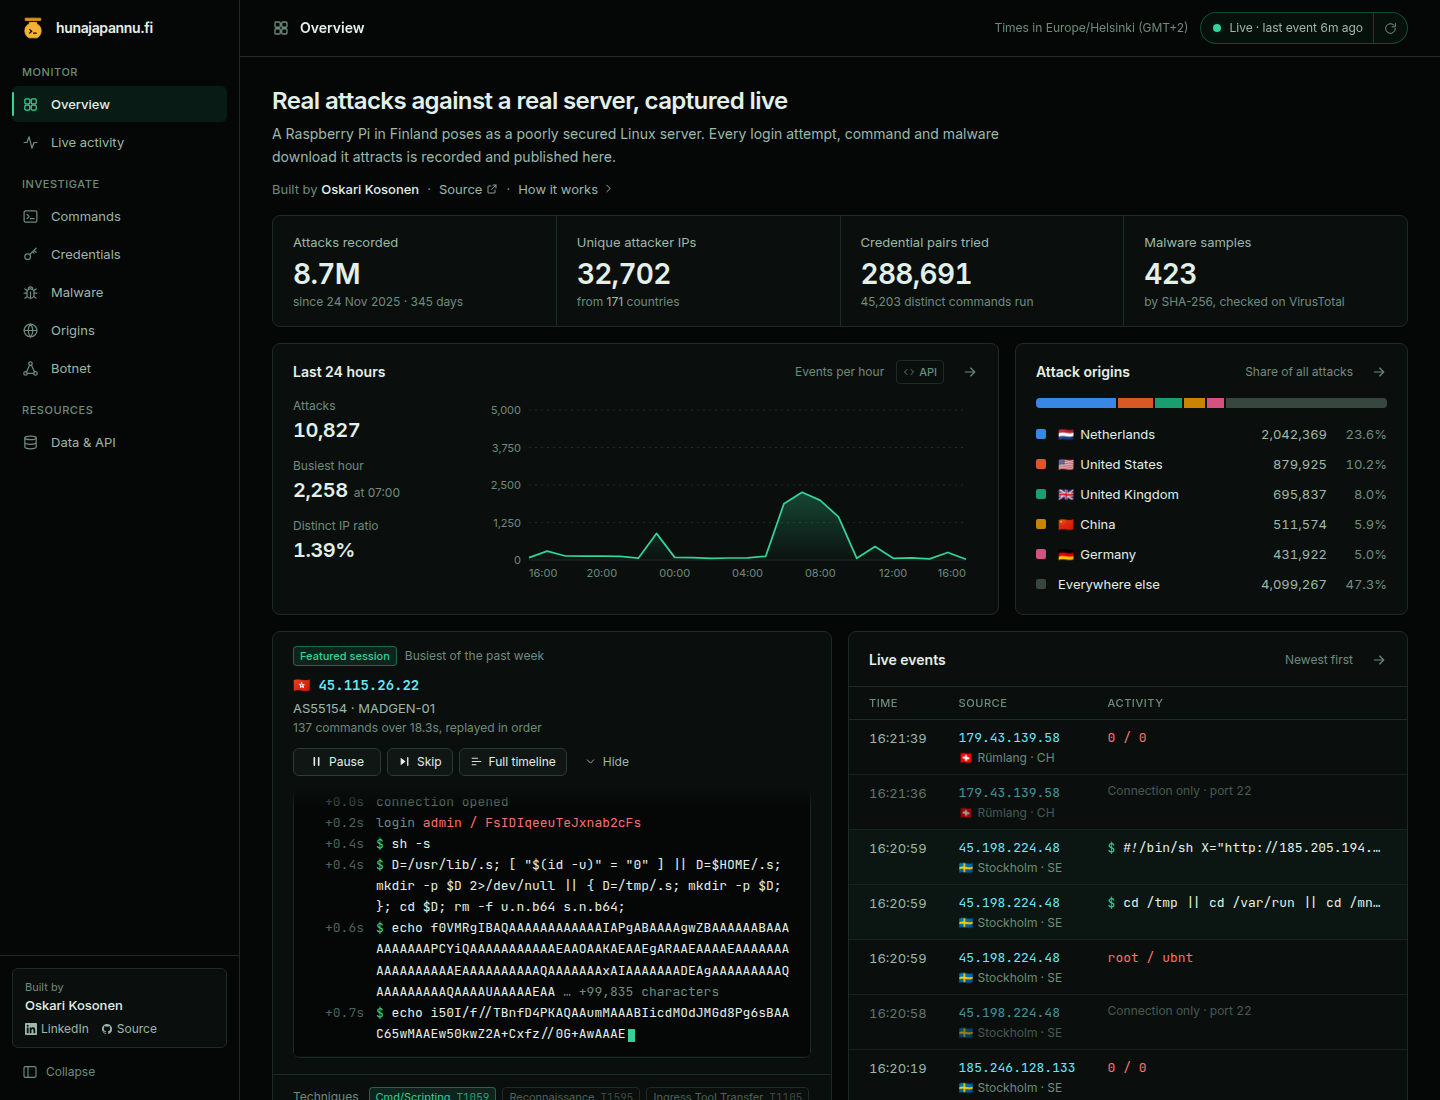
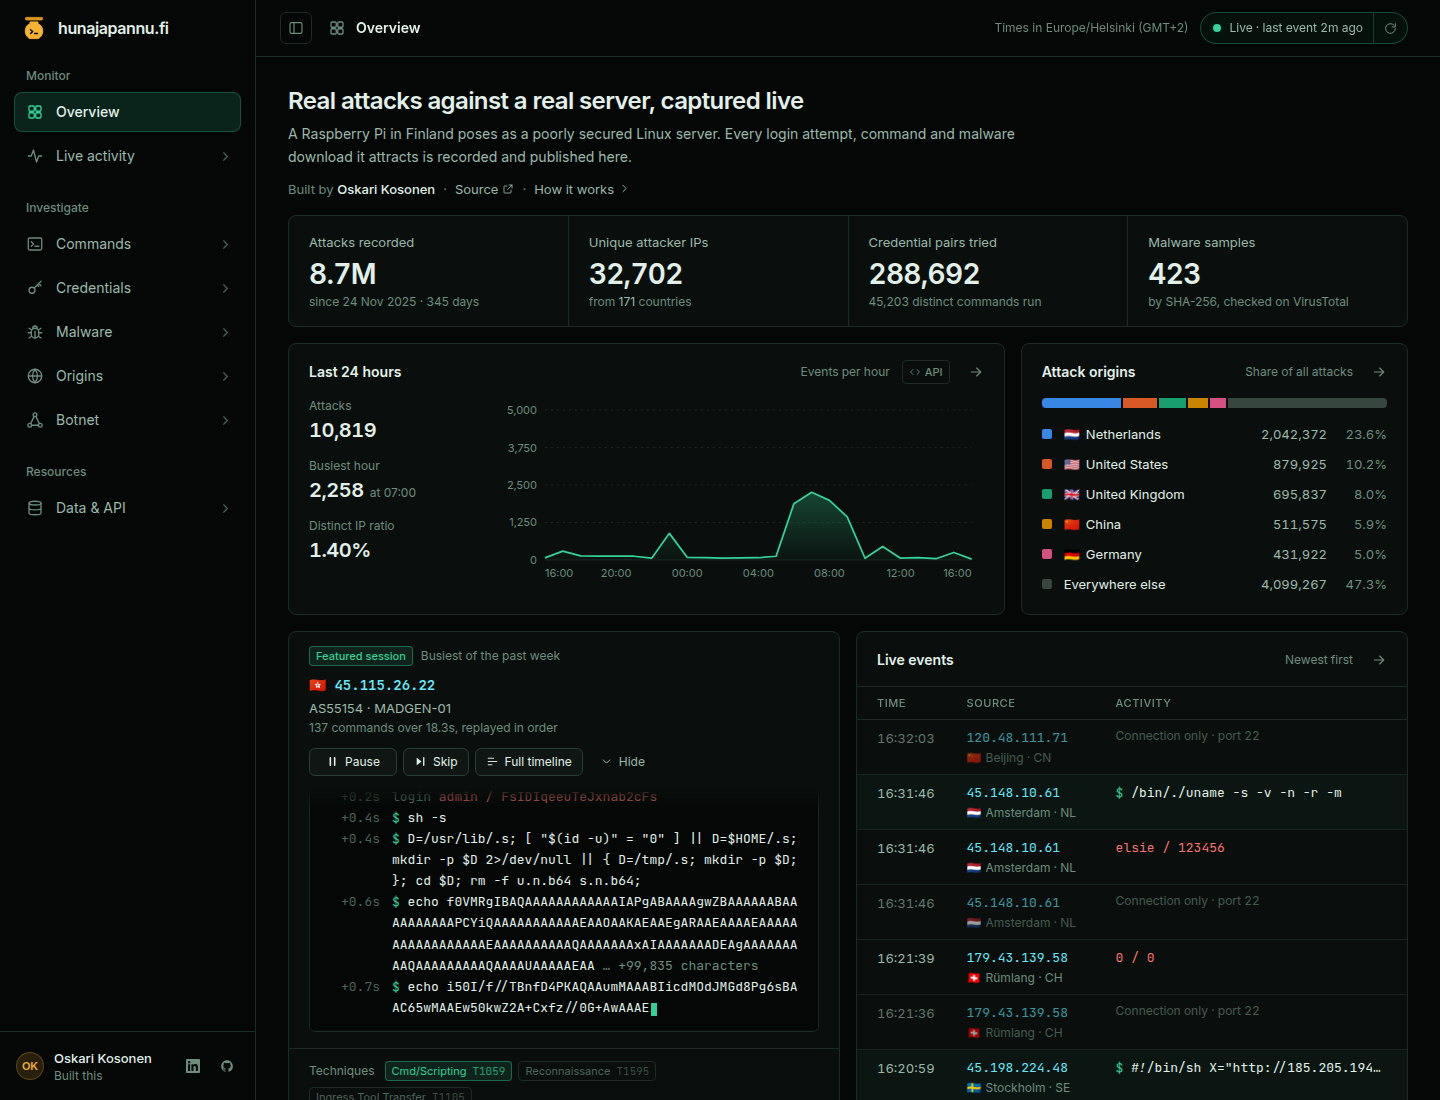
Refine the sidebar: chevrons, larger rows, author row, toggle in top bar
- Every item but the current one carries a chevron that nudges right on
  hover: you are here, the others go somewhere. The current item drops it
  and gets a filled highlight with a hairline ring instead of a thin bar.
- Rows are 40px with 14px labels and 18px icons, on a 256px panel; the
  old 36px rows with 13px text read as a secondary list.
- Group headings in sentence case rather than tracked small caps, and
  hairline dividers between groups in the collapsed rail.
- The collapse toggle moves to the top bar beside the view title, so the
  sidebar foot holds only the author: an initials avatar, name, and icon
  links to LinkedIn and the source.

Also fixed while checking small screens:
- At 320px the top bar overflowed and pushed the refresh button off the
  screen; phones now show "Live · 1m ago" instead of the long form.
- The 24h figures overlapped on narrow phones because they refused to
  wrap ("2,258 at 07:00" ran into the next figure).

diff --git a/frontend/src/components/Sidebar.jsx b/frontend/src/components/Sidebar.jsx
@@ -1,6 +1,6 @@
 import { memo } from "react";
 import { cx } from "../lib/cx";
-import { GitHubIcon, LinkedInIcon, LogoMark, PanelLeftIcon } from "./ui/icons";
+import { ChevronRightIcon, GitHubIcon, LinkedInIcon, LogoMark } from "./ui/icons";
 
 /**
  * Desktop navigation: sections grouped by what you are doing — watching,
@@ -9,10 +9,91 @@ import { GitHubIcon, LinkedInIcon, LogoMark, PanelLeftIcon } from "./ui/icons";
  *
  * Items are real links (?view=...), so middle-click and "open in new tab"
  * behave; a plain click is intercepted to switch views without a reload.
+ * Every item but the current one carries a chevron: you are here, those go
+ * somewhere. The collapse toggle lives in the top bar, beside the view title.
  *
  * @param {Array<{id, label, group, Icon}>} items
  */
-const Sidebar = ({ items, groups, view, onView, collapsed, onToggle }) => {
+
+const LINKEDIN = "https://www.linkedin.com/in/oskari-kosonen-ba2589294/";
+const GITHUB = "https://github.com/OskariKosonen/hunajapannu";
+
+const NavItem = ({ item, active, collapsed, onGo }) => {
+  const { id, label, Icon } = item;
+  return (
+    <li>
+      <a
+        href={id === "overview" ? "/" : `/?view=${id}`}
+        onClick={(e) => onGo(e, id)}
+        aria-current={active ? "page" : undefined}
+        title={collapsed ? label : undefined}
+        className={cx(
+          "group flex h-10 items-center rounded-lg text-base transition-colors",
+          collapsed ? "justify-center" : "gap-3 pl-3 pr-2",
+          active
+            ? "bg-accent/[0.14] text-fg font-medium ring-1 ring-inset ring-accent/25"
+            : "text-fg-muted hover:bg-surface-2 hover:text-fg"
+        )}
+      >
+        <Icon
+          size={18}
+          className={cx("transition-colors", active ? "text-accent" : "text-fg-subtle group-hover:text-fg-muted")}
+        />
+        {!collapsed && (
+          <>
+            <span className="min-w-0 flex-1 truncate">{label}</span>
+            {!active && (
+              <ChevronRightIcon
+                size={15}
+                className="text-fg-subtle/70 transition-transform group-hover:translate-x-0.5 group-hover:text-fg-muted"
+              />
+            )}
+          </>
+        )}
+        {collapsed && <span className="sr-only">{label}</span>}
+      </a>
+    </li>
+  );
+};
+
+/** The author, as a compact row: initials, name, and the two links. */
+const Author = ({ collapsed }) => {
+  const avatar = (
+    <span
+      aria-hidden="true"
+      className="flex h-7 w-7 shrink-0 items-center justify-center rounded-full bg-honey/15 text-2xs font-semibold text-honey ring-1 ring-inset ring-honey/25"
+    >
+      OK
+    </span>
+  );
+
+  if (collapsed) {
+    return (
+      <a href={LINKEDIN} target="_blank" rel="noreferrer" title="Oskari Kosonen on LinkedIn" aria-label="Oskari Kosonen on LinkedIn">
+        {avatar}
+      </a>
+    );
+  }
+
+  const iconLink = "flex h-7 w-6 items-center justify-center rounded-md text-fg-subtle hover:bg-surface-2 hover:text-fg transition-colors";
+  return (
+    <div className="flex items-center gap-2.5 rounded-lg px-1 py-1">
+      {avatar}
+      <div className="min-w-0 flex-1 leading-tight mr-0.5">
+        <div className="truncate text-sm font-medium text-fg">Oskari Kosonen</div>
+        <div className="text-xs text-fg-subtle">Built this</div>
+      </div>
+      <a href={LINKEDIN} target="_blank" rel="noreferrer" className={iconLink} title="LinkedIn" aria-label="Oskari Kosonen on LinkedIn">
+        <LinkedInIcon size={14} />
+      </a>
+      <a href={GITHUB} target="_blank" rel="noreferrer" className={iconLink} title="Source on GitHub" aria-label="Source on GitHub">
+        <GitHubIcon size={14} />
+      </a>
+    </div>
+  );
+};
+
+const Sidebar = ({ items, groups, view, onView, collapsed }) => {
   const go = (e, id) => {
     if (e.metaKey || e.ctrlKey || e.shiftKey || e.button !== 0) return;
     e.preventDefault();
@@ -23,102 +104,42 @@ const Sidebar = ({ items, groups, view, onView, collapsed, onToggle }) => {
     <aside
       className={cx(
         "fixed inset-y-0 left-0 z-40 flex flex-col border-r border-line bg-canvas transition-[width] duration-200",
-        collapsed ? "w-16" : "w-60"
+        collapsed ? "w-[4.5rem]" : "w-64"
       )}
     >
-      <div className={cx("flex h-14 shrink-0 items-center gap-2.5", collapsed ? "justify-center" : "px-5")}>
+      <div className={cx("flex h-14 shrink-0 items-center", collapsed ? "justify-center" : "px-5")}>
         <a href="/" className="flex items-center gap-2.5 min-w-0" aria-label="hunajapannu.fi — home">
-          <LogoMark size={26} />
-          <h1 className={cx("text-base font-semibold tracking-tight text-fg", collapsed && "sr-only")}>
+          <LogoMark size={28} />
+          <h1 className={cx("text-lg font-semibold tracking-tight text-fg", collapsed && "sr-only")}>
             hunajapannu.fi
           </h1>
         </a>
       </div>
 
-      <nav aria-label="Dashboard sections" className="flex-1 overflow-y-auto hide-native-scrollbar px-3 pb-4">
-        {groups.map((group) => (
-          <div key={group} className="mt-4 first:mt-2">
-            <div
-              className={cx(
-                "mb-1.5 px-2.5 text-2xs font-medium uppercase tracking-wider text-fg-subtle",
-                collapsed && "sr-only"
-              )}
-            >
-              {group}
-            </div>
-            <ul className="space-y-0.5">
+      <nav
+        aria-label="Dashboard sections"
+        className={cx("flex-1 overflow-y-auto hide-native-scrollbar pb-4", collapsed ? "px-3" : "px-3.5")}
+      >
+        {groups.map((group, i) => (
+          <div key={group} className={i === 0 ? "mt-3" : "mt-6"}>
+            {collapsed ? (
+              // A hairline where the heading was keeps the groups apart in the rail.
+              i > 0 && <div className="mx-2 mb-3 border-t border-line" aria-hidden="true" />
+            ) : null}
+            <div className={cx("mb-2 px-3 text-xs font-medium text-fg-subtle", collapsed && "sr-only")}>{group}</div>
+            <ul className="space-y-1">
               {items
                 .filter((item) => item.group === group)
-                .map((item) => {
-                  const { id, label, Icon } = item;
-                  const active = id === view;
-                  return (
-                    <li key={id}>
-                      <a
-                        href={id === "overview" ? "/" : `/?view=${id}`}
-                        onClick={(e) => go(e, id)}
-                        aria-current={active ? "page" : undefined}
-                        title={collapsed ? label : undefined}
-                        className={cx(
-                          "group relative flex h-9 items-center gap-3 rounded-md text-sm transition-colors",
-                          collapsed ? "justify-center" : "px-2.5",
-                          active
-                            ? "bg-accent/10 text-fg font-medium"
-                            : "text-fg-muted hover:bg-surface-2 hover:text-fg"
-                        )}
-                      >
-                        {active && (
-                          <span className="absolute left-0 top-1.5 bottom-1.5 w-0.5 rounded-full bg-accent" aria-hidden="true" />
-                        )}
-                        <Icon size={17} className={active ? "text-accent" : "text-fg-subtle group-hover:text-fg-muted"} />
-                        <span className={cx(collapsed && "sr-only")}>{label}</span>
-                      </a>
-                    </li>
-                  );
-                })}
+                .map((item) => (
+                  <NavItem key={item.id} item={item} active={item.id === view} collapsed={collapsed} onGo={go} />
+                ))}
             </ul>
           </div>
         ))}
       </nav>
 
-      <div className={cx("shrink-0 border-t border-line p-3 space-y-2", collapsed && "flex flex-col items-center")}>
-        {!collapsed && (
-          <div className="rounded-md border border-line bg-surface px-3 py-2.5">
-            <div className="text-2xs text-fg-subtle">Built by</div>
-            <div className="text-sm font-medium text-fg">Oskari Kosonen</div>
-            <div className="mt-1.5 flex gap-3 text-xs">
-              <a
-                href="https://www.linkedin.com/in/oskari-kosonen-ba2589294/"
-                target="_blank"
-                rel="noreferrer"
-                className="inline-flex items-center gap-1 text-fg-muted hover:text-fg"
-              >
-                <LinkedInIcon size={12} /> LinkedIn
-              </a>
-              <a
-                href="https://github.com/OskariKosonen/hunajapannu"
-                target="_blank"
-                rel="noreferrer"
-                className="inline-flex items-center gap-1 text-fg-muted hover:text-fg"
-              >
-                <GitHubIcon size={12} /> Source
-              </a>
-            </div>
-          </div>
-        )}
-        <button
-          type="button"
-          onClick={onToggle}
-          aria-label={collapsed ? "Expand sidebar" : "Collapse sidebar"}
-          title={collapsed ? "Expand sidebar" : "Collapse sidebar"}
-          className={cx(
-            "flex h-8 items-center gap-2 rounded-md text-xs text-fg-subtle hover:bg-surface-2 hover:text-fg transition-colors",
-            collapsed ? "w-10 justify-center" : "w-full px-2.5"
-          )}
-        >
-          <PanelLeftIcon size={16} />
-          {!collapsed && "Collapse"}
-        </button>
+      <div className={cx("shrink-0 border-t border-line p-3", collapsed && "flex justify-center")}>
+        <Author collapsed={collapsed} />
       </div>
     </aside>
   );

diff --git a/frontend/src/components/AppHeader.jsx b/frontend/src/components/AppHeader.jsx
@@ -1,6 +1,6 @@
 import { memo, useState } from "react";
 import Tabs from "./ui/Tabs";
-import { LogoMark, RefreshIcon } from "./ui/icons";
+import { LogoMark, PanelLeftIcon, RefreshIcon } from "./ui/icons";
 import { cx } from "../lib/cx";
 import { useNow } from "../hooks/useRefresh";
 import { TIME_ZONE, TIME_ZONE_LABEL, formatClock, formatRelative } from "../lib/format";
@@ -24,11 +24,18 @@ const LiveControl = ({ lastEventAt, lastUpdated, onRefresh, now }) => {
   const known = Number.isFinite(t);
   const stale = known && now - t > STALE_AFTER_MS;
 
-  const label = !known
-    ? "Connecting…"
-    : stale
-      ? `No events for ${formatRelative(lastEventAt, now).replace(" ago", "")}`
-      : `Live · last event ${formatRelative(lastEventAt, now)}`;
+  // The long form does not fit beside the brand on a small phone, which
+  // pushed the refresh button off the screen at 320px.
+  const label = !known ? (
+    "Connecting…"
+  ) : stale ? (
+    `No events for ${formatRelative(lastEventAt, now).replace(" ago", "")}`
+  ) : (
+    <>
+      <span className="sm:hidden">Live · {formatRelative(lastEventAt, now)}</span>
+      <span className="hidden sm:inline">Live · last event {formatRelative(lastEventAt, now)}</span>
+    </>
+  );
 
   const refreshTitle = lastUpdated
     ? `Refresh now · last refreshed ${formatClock(lastUpdated)}, automatic every 2 minutes`
@@ -99,7 +106,17 @@ const Controls = ({ lastEventAt, lastUpdated, onRefresh, now }) => (
  * live status and refresh. Phone: no room for a sidebar, so it carries the
  * brand and the sections become a scrolling tab strip underneath.
  */
-const AppHeader = ({ desktop, tabs, active, onView, lastEventAt, lastUpdated, onRefresh }) => {
+const AppHeader = ({
+  desktop,
+  tabs,
+  active,
+  onView,
+  sidebarCollapsed,
+  onToggleSidebar,
+  lastEventAt,
+  lastUpdated,
+  onRefresh,
+}) => {
   // Ticks here rather than in App, so "12s ago" re-renders the header alone.
   const now = useNow(15000);
   const controls = <Controls lastEventAt={lastEventAt} lastUpdated={lastUpdated} onRefresh={onRefresh} now={now} />;
@@ -110,6 +127,15 @@ const AppHeader = ({ desktop, tabs, active, onView, lastEventAt, lastUpdated, on
       <header className="sticky top-0 z-30 border-b border-line bg-canvas/85 backdrop-blur supports-[backdrop-filter]:bg-canvas/70">
         <div className="mx-auto flex h-14 max-w-[1600px] items-center gap-4 px-6 lg:px-8">
           <div className="flex min-w-0 items-center gap-2.5">
+            <button
+              type="button"
+              onClick={onToggleSidebar}
+              aria-label={sidebarCollapsed ? "Expand sidebar" : "Collapse sidebar"}
+              title={sidebarCollapsed ? "Expand sidebar" : "Collapse sidebar"}
+              className="-ml-2 mr-1.5 flex h-8 w-8 items-center justify-center rounded-md border border-line text-fg-subtle hover:border-line-strong hover:bg-surface-2 hover:text-fg transition-colors"
+            >
+              <PanelLeftIcon size={16} />
+            </button>
             <Icon size={18} className="text-fg-subtle" />
             <span className="text-base font-semibold text-fg whitespace-nowrap">{active.label}</span>
             {active.description && (

diff --git a/frontend/src/App.jsx b/frontend/src/App.jsx
@@ -166,13 +166,12 @@ function Shell() {
             view={active.id}
             onView={navigate}
             collapsed={collapsed}
-            onToggle={toggleSidebar}
           />
         )}
         <div
           className={cx(
             "min-h-screen flex flex-col transition-[padding] duration-200",
-            desktop && (collapsed ? "pl-16" : "pl-60")
+            desktop && (collapsed ? "pl-[4.5rem]" : "pl-64")
           )}
         >
           {/* Hidden until focused; the first thing Tab lands on. */}
@@ -188,6 +187,8 @@ function Shell() {
             tabs={TAB_LIST}
             active={active}
             onView={navigate}
+            sidebarCollapsed={collapsed}
+            onToggleSidebar={toggleSidebar}
             lastEventAt={lastEventAt}
             lastUpdated={lastUpdated}
             onRefresh={refresh}

diff --git a/frontend/src/components/DayPanel.jsx b/frontend/src/components/DayPanel.jsx
@@ -19,7 +19,7 @@ const Figure = ({ label, value, suffix, title, loading }) => (
     {loading ? (
       <div className="mt-1 h-7 w-20 rounded bg-surface-3 animate-pulse" />
     ) : (
-      <div className="mt-0.5 flex items-baseline gap-1.5 whitespace-nowrap">
+      <div className="mt-0.5 flex flex-wrap items-baseline gap-x-1.5">
         <span className="text-xl font-semibold tracking-tight text-fg tabular-nums">{value}</span>
         {suffix && <span className="text-xs text-fg-subtle">{suffix}</span>}
       </div>
